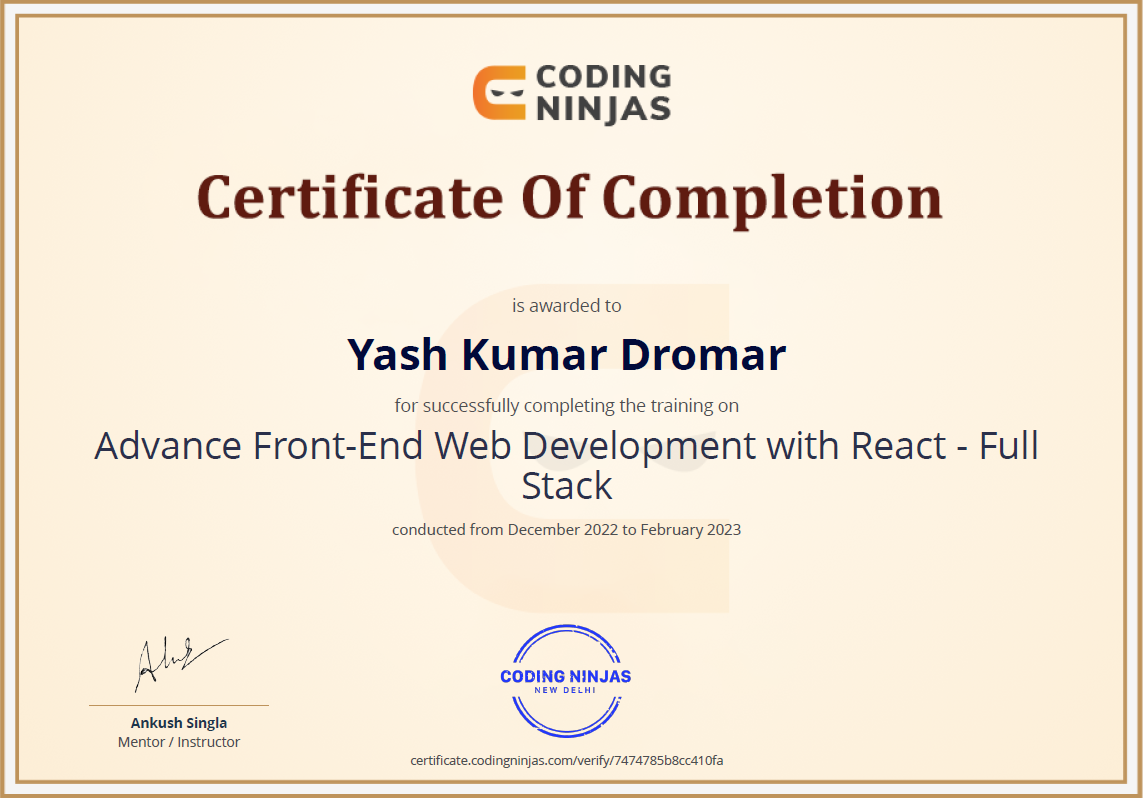
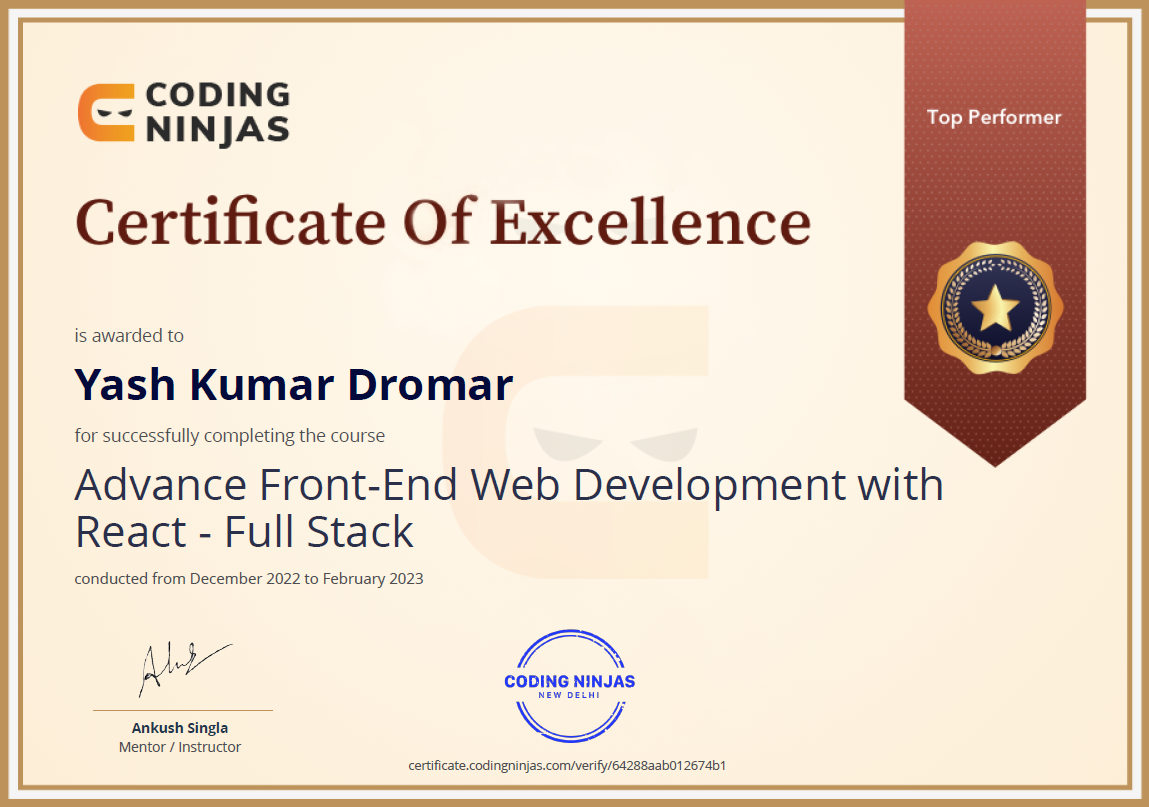
certificate upgraded

diff --git a/index.html b/index.html
@@ -223,7 +223,7 @@ initial-scale=1,minimum-scale=1">
           </div>
           <div class="container-box">
             <img src="static/certificates/react.png">
-            <div class="container-details"><a href="https://certificate.codingninjas.com/view/7474785b8cc410fa" target="_blank">View Certificate</a></div>
+            <div class="container-details"><a href="https://certificate.codingninjas.com/view/64288aab012674b1" target="_blank">View Certificate</a></div>
 
             <div class="container-title">React.js | Frontend Web Development</div>
 
